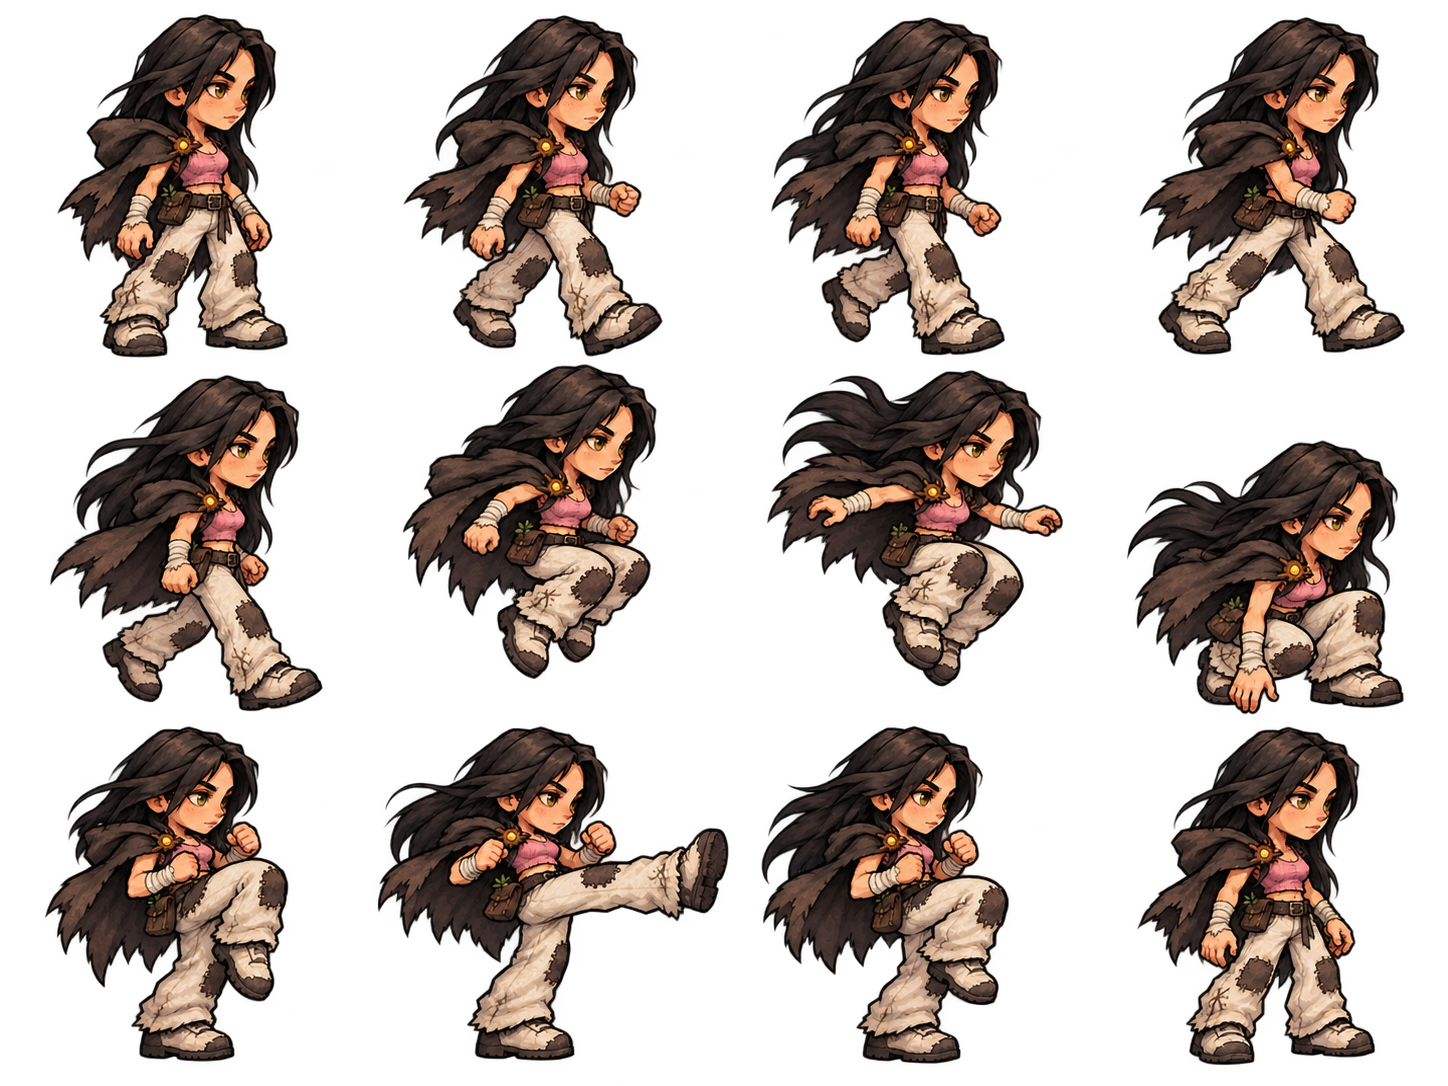
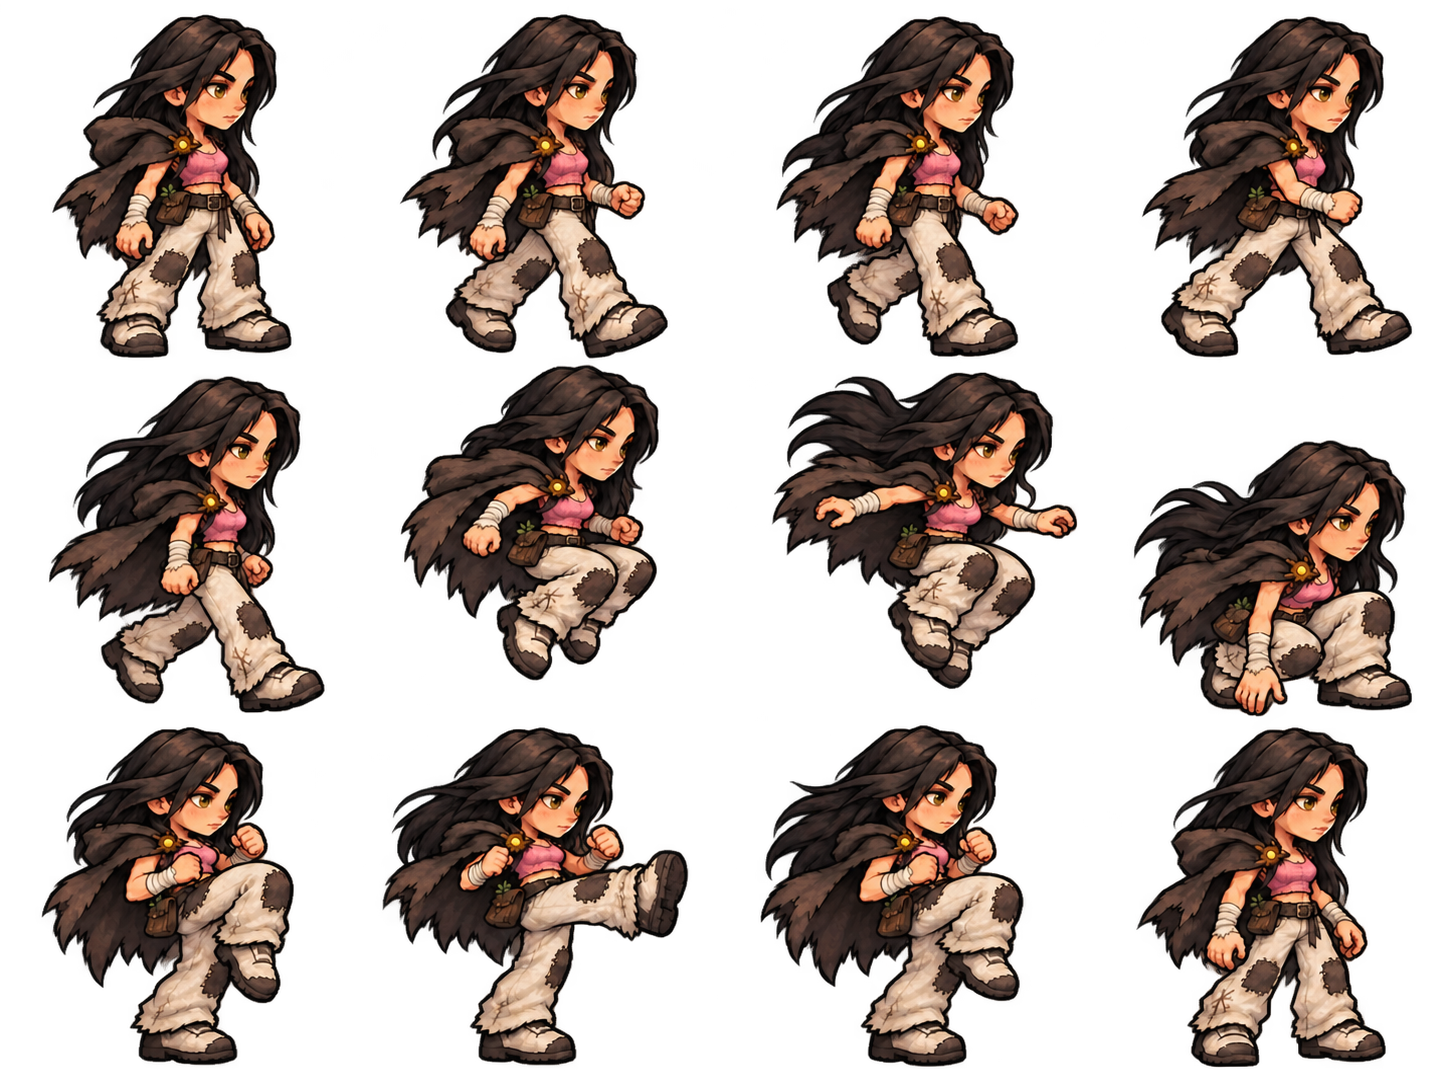
Keep Elara kick frames inside atlas cells and support headless PWA exports

diff --git a/Assets/WebTemplates/web-index.html b/Assets/WebTemplates/web-index.html
@@ -1,6 +1,6 @@
-<!doctype html><html lang="tr"><head><meta charset="utf-8"><meta name="viewport" content="width=device-width, initial-scale=1, viewport-fit=cover, user-scalable=no"><meta name="theme-color" content="#100e16"><meta name="mobile-web-app-capable" content="yes"><meta name="apple-mobile-web-app-capable" content="yes"><meta name="apple-mobile-web-app-status-bar-style" content="black-translucent"><meta name="apple-mobile-web-app-title" content="Kök Yankısı"><title>Kök Yankısı • Jump Higher</title><link rel="manifest" href="manifest.webmanifest"><link rel="icon" href="icon.png"><link rel="apple-touch-icon" href="icon-192.png"><style>*{box-sizing:border-box}html,body{margin:0;width:100%;height:100%;overflow:hidden;background:#100e16;color:#e6c5a0;font-family:system-ui,sans-serif;overscroll-behavior:none}body{height:100dvh;padding:env(safe-area-inset-top) env(safe-area-inset-right) env(safe-area-inset-bottom) env(safe-area-inset-left)}#game{width:100%;height:100%;display:block;touch-action:none;outline:none}#loading{position:fixed;inset:0;display:flex;flex-direction:column;align-items:center;justify-content:center;background:radial-gradient(ellipse at 50% 40%,#322231,#100e16 65%);gap:18px}img{width:min(28vw,180px);border-radius:30px;box-shadow:0 0 70px #a9482426}h1{font-size:clamp(24px,5vw,40px);letter-spacing:.12em;margin:6px}p{font-size:14px;color:#a28d87;margin:0}progress{width:min(65vw,300px);height:5px;accent-color:#d79060}#error{display:none;max-width:520px;padding:24px;text-align:center;color:#f1a59a}#install,#toast{position:fixed;left:50%;transform:translateX(-50%);bottom:max(16px,env(safe-area-inset-bottom));z-index:9;border-radius:999px;padding:10px 18px;font-size:14px;background:#322231;color:#e6c5a0;border:1px solid #d7906066;max-width:92vw;text-align:center}#install{display:none;font-family:inherit;cursor:pointer}#toast{display:none;pointer-events:none}</style></head><body><canvas id="game" tabindex="0"></canvas><div id="loading"><img src="icon.png" alt="Kök Gezgin"><h1>KÖK YANKISI</h1><p>Sonsuza doğru yüksel</p><progress id="progress" value="0" max="1"></progress><p id="state">Oyun yükleniyor…</p><div id="error" role="alert"></div></div><button id="install" type="button">📲 Cihaza yükle</button><div id="toast" role="status"></div><script src="__LOADER_JS__"></script><script>const canvas=document.getElementById('game');function failure(error){document.getElementById('state').textContent='Oyun başlatılamadı';let el=document.getElementById('error');el.style.display='block';el.textContent=String(error)+' • Sayfayı yenileyip tekrar deneyebilirsin.';}createUnityInstance(canvas,{dataUrl:'__DATA__',frameworkUrl:'__FRAMEWORK_JS__',codeUrl:'__WASM__',streamingAssetsUrl:'StreamingAssets',companyName:'Kerem Yürük',productName:'Kök Yankısı',productVersion:'0.6.0',devicePixelRatio:Math.min(window.devicePixelRatio||1,2),matchWebGLToCanvasSize:true},p=>document.getElementById('progress').value=p).then(instance=>{window.game=instance;document.getElementById('loading').style.display='none';canvas.focus();}).catch(failure);window.addEventListener('keydown',e=>{if(['Space','ArrowUp','ArrowDown','ArrowLeft','ArrowRight'].includes(e.code))e.preventDefault();});
+<!doctype html><html lang="tr"><head><meta charset="utf-8"><meta name="viewport" content="width=device-width, initial-scale=1, viewport-fit=cover, user-scalable=no"><meta name="theme-color" content="#100e16"><meta name="mobile-web-app-capable" content="yes"><meta name="apple-mobile-web-app-capable" content="yes"><meta name="apple-mobile-web-app-status-bar-style" content="black-translucent"><meta name="apple-mobile-web-app-title" content="Kök Yankısı"><title>Kök Yankısı • Jump Higher</title><link rel="manifest" href="manifest.webmanifest"><link rel="icon" href="icon.png"><link rel="apple-touch-icon" href="icon-192.png"><style>*{box-sizing:border-box}html,body{margin:0;width:100%;height:100%;overflow:hidden;background:#100e16;color:#e6c5a0;font-family:system-ui,sans-serif;overscroll-behavior:none}body{height:100dvh;padding:env(safe-area-inset-top) env(safe-area-inset-right) env(safe-area-inset-bottom) env(safe-area-inset-left)}#game{width:100%;height:100%;display:block;touch-action:none;outline:none}#loading{position:fixed;inset:0;display:flex;flex-direction:column;align-items:center;justify-content:center;background:radial-gradient(ellipse at 50% 40%,#322231,#100e16 65%);gap:18px}img{width:min(28vw,180px);border-radius:30px;box-shadow:0 0 70px #a9482426}h1{font-size:clamp(24px,5vw,40px);letter-spacing:.12em;margin:6px}p{font-size:14px;color:#a28d87;margin:0}progress{width:min(65vw,300px);height:5px;accent-color:#d79060}#error{display:none;max-width:520px;padding:24px;text-align:center;color:#f1a59a}#install,#toast{position:fixed;left:50%;transform:translateX(-50%);bottom:max(16px,env(safe-area-inset-bottom));z-index:9;border-radius:999px;padding:10px 18px;font-size:14px;background:#322231;color:#e6c5a0;border:1px solid #d7906066;max-width:92vw;text-align:center}#install{display:none;font-family:inherit;cursor:pointer}#toast{display:none;pointer-events:none}</style></head><body><canvas id="game" tabindex="0"></canvas><div id="loading"><img src="icon.png" alt="Kök Gezgin"><h1>KÖK YANKISI</h1><p>Sonsuza doğru yüksel</p><progress id="progress" value="0" max="1"></progress><p id="state">Oyun yükleniyor…</p><div id="error" role="alert"></div></div><button id="install" type="button">📲 Cihaza yükle</button><div id="toast" role="status"></div><script src="__LOADER_JS__"></script><script>const canvas=document.getElementById('game');function failure(error){document.getElementById('state').textContent='Oyun başlatılamadı';let el=document.getElementById('error');el.style.display='block';el.textContent=String(error)+' • Sayfayı yenileyip tekrar deneyebilirsin.';}createUnityInstance(canvas,{dataUrl:'__DATA__',frameworkUrl:'__FRAMEWORK_JS__',codeUrl:'__WASM__',streamingAssetsUrl:'StreamingAssets',companyName:'Kerem Yürük',productName:'Kök Yankısı',productVersion:'0.6.0',devicePixelRatio:Math.min(window.devicePixelRatio||1,2),matchWebGLToCanvasSize:true},p=>document.getElementById('progress').value=p).then(instance=>{window.game=instance;document.getElementById('install').style.display='none';document.getElementById('loading').style.display='none';canvas.focus();}).catch(failure);window.addEventListener('keydown',e=>{if(['Space','ArrowUp','ArrowDown','ArrowLeft','ArrowRight'].includes(e.code))e.preventDefault();});
 const toastEl=document.getElementById('toast'),installBtn=document.getElementById('install');let toastTimer;function toast(text,ms){toastEl.textContent=text;toastEl.style.display='block';clearTimeout(toastTimer);toastTimer=setTimeout(()=>toastEl.style.display='none',ms||4000);}
-const standalone=matchMedia('(display-mode: standalone)').matches||navigator.standalone===true;let installEvent;window.addEventListener('beforeinstallprompt',e=>{e.preventDefault();installEvent=e;if(!standalone)installBtn.style.display='block';});installBtn.addEventListener('click',async()=>{if(!installEvent)return;installEvent.prompt();await installEvent.userChoice;installEvent=null;installBtn.style.display='none';});window.addEventListener('appinstalled',()=>{installBtn.style.display='none';toast('Kök Yankısı cihaza yüklendi');});
+const standalone=matchMedia('(display-mode: standalone)').matches||navigator.standalone===true;let installEvent;window.addEventListener('beforeinstallprompt',e=>{if(window.game)return;e.preventDefault();installEvent=e;if(!standalone)installBtn.style.display='block';});installBtn.addEventListener('click',async()=>{if(!installEvent)return;installEvent.prompt();await installEvent.userChoice;installEvent=null;installBtn.style.display='none';});window.addEventListener('appinstalled',()=>{installBtn.style.display='none';toast('Kök Yankısı cihaza yüklendi');});
 if(!standalone&&/iphone|ipad|ipod/i.test(navigator.userAgent)&&!sessionStorage.getItem('iosHint')){sessionStorage.setItem('iosHint','1');setTimeout(()=>toast('Yüklemek için Paylaş ▸ Ana Ekrana Ekle',7000),2500);}
 if('serviceWorker'in navigator){const hadController=navigator.serviceWorker.controller;navigator.serviceWorker.addEventListener('controllerchange',()=>{if(hadController&&!window.__reloaded){window.__reloaded=1;location.reload();}});navigator.serviceWorker.addEventListener('message',e=>{if(e.data&&e.data.type==='offline-ready')toast('Oyun çevrimdışı oynanmaya hazır ✔');});window.addEventListener('load',()=>navigator.serviceWorker.register('sw.js').catch(e=>{console.warn('sw.js kaydı başarısız',e);toast('Çevrimdışı kurulum başarısız: '+(e&&e.message||e),7000);}));}
 </script></body></html>

diff --git a/Assets/Editor/ReleaseBuildQueue.cs b/Assets/Editor/ReleaseBuildQueue.cs
@@ -56,18 +56,24 @@ public static class ReleaseBuildQueue
     // Toplu mod: WEB_OUT ortam değişkenindeki klasöre WebGL derlemesi + PWA dosyaları yazar.
     public static void BuildWebBatch()
     {
+        ElaraCostumeVerification.Run();
         string folder=Environment.GetEnvironmentVariable("WEB_OUT");Directory.CreateDirectory(folder);
         PlayerSettings.productName="Kök Yankısı";PlayerSettings.bundleVersion="0.6.0";PlayerSettings.runInBackground=true;
         EditorUserBuildSettings.SwitchActiveBuildTarget(BuildTargetGroup.WebGL,BuildTarget.WebGL);
         PlayerSettings.WebGL.compressionFormat=WebGLCompressionFormat.Disabled;PlayerSettings.WebGL.initialMemorySize=256;
         Build(BuildTarget.WebGL,folder,"WebGL");
+        FinalizeWebBatch();
+    }
+    public static void FinalizeWebBatch()
+    {
+        string folder=Environment.GetEnvironmentVariable("WEB_OUT");
         File.Copy(Application.dataPath+"/WebTemplates/web-index.html",folder+"/index.html",true);
         string html=File.ReadAllText(folder+"/index.html");
         foreach(string suffix in new[]{"loader.js","framework.js","data","wasm"})
         {string path=Directory.GetFiles(folder+"/Build","*."+suffix).Single();html=html.Replace("__"+suffix.ToUpperInvariant().Replace('.','_')+"__","Build/"+Path.GetFileName(path));}
         File.WriteAllText(folder+"/index.html",html);
-        WebPwaExport.Apply(folder);
         File.WriteAllText(folder+"/build-info.json", JsonUtility.ToJson(new WebBuildInfo { version=Application.version, sourceRevision=Environment.GetEnvironmentVariable("BUILD_SOURCE_REVISION"), costumeIds=Costumes.All.Select(c=>c.Id).ToArray() },true));
+        WebPwaExport.Apply(folder);
         File.WriteAllText("Library/WebBatch.txt","done");
     }
     // Toplu mod: Builds/KokYankisi-Windows/KokYankisi.exe yazar (WIN_OUT ile klasör değiştirilebilir).

diff --git a/Assets/Editor/WebPwaExport.cs b/Assets/Editor/WebPwaExport.cs
@@ -106,14 +106,6 @@ self.addEventListener('fetch',event=>{
         var src=new Texture2D(2,2,TextureFormat.RGBA32,false);
         src.LoadImage(File.ReadAllBytes(sourcePath));
         int inner=Mathf.RoundToInt(size*scale);
-        var rt=RenderTexture.GetTemporary(inner,inner,0,RenderTextureFormat.ARGB32,RenderTextureReadWrite.sRGB);
-        var previous=RenderTexture.active;
-        Graphics.Blit(src,rt);
-        RenderTexture.active=rt;
-        var resized=new Texture2D(inner,inner,TextureFormat.RGBA32,false);
-        resized.ReadPixels(new Rect(0,0,inner,inner),0,0);resized.Apply();
-        RenderTexture.active=previous;RenderTexture.ReleaseTemporary(rt);
-
         var output=new Texture2D(size,size,TextureFormat.RGBA32,false);
         var background=new Color32(16,14,22,255);
         var pixels=Enumerable.Repeat(background,size*size).ToArray();
@@ -121,12 +113,13 @@ self.addEventListener('fetch',event=>{
         int offset=(size-inner)/2;
         for(int y=0;y<inner;y++)for(int x=0;x<inner;x++)
         {
-            Color c=resized.GetPixel(x,y);
+            // CPU sampling also works in -nographics batch exports.
+            Color c=src.GetPixelBilinear((x+.5f)/inner,(y+.5f)/inner);
             Color under=output.GetPixel(x+offset,y+offset);
             output.SetPixel(x+offset,y+offset,Color.Lerp(under,new Color(c.r,c.g,c.b,1f),c.a));
         }
         output.Apply();
         File.WriteAllBytes(targetPath,output.EncodeToPNG());
-        UnityEngine.Object.DestroyImmediate(src);UnityEngine.Object.DestroyImmediate(resized);UnityEngine.Object.DestroyImmediate(output);
+        UnityEngine.Object.DestroyImmediate(src);UnityEngine.Object.DestroyImmediate(output);
     }
 }

diff --git a/Assets/Editor/ElaraCostumeVerification.cs b/Assets/Editor/ElaraCostumeVerification.cs
@@ -21,6 +21,8 @@ public static class ElaraCostumeVerification
                 int solid=0,clear=0;
                 foreach(var p in pixels) { if(p.a>.5f) solid++; if(p.a<.01f) clear++; }
                 Assert.IsTrue(solid>500); Assert.IsTrue(clear>pixels.Length/4);
+                for(int x=0;x<(int)r.width;x++) { Assert.IsTrue(pixels[x].a<.5f); Assert.IsTrue(pixels[(int)(r.height-1)*(int)r.width+x].a<.5f); }
+                for(int y=0;y<(int)r.height;y++) { Assert.IsTrue(pixels[y*(int)r.width].a<.5f); Assert.IsTrue(pixels[y*(int)r.width+(int)r.width-1].a<.5f); }
                 Assert.IsTrue(frames[i].pivot.y>=0 && frames[i].pivot.y<r.height);
                 var foot=sheet.GetPixels((int)r.x,(int)(r.y+frames[i].pivot.y-.5f),(int)r.width,1);
                 int supported=0; foreach(var p in foot) if(p.a>.5f) supported++;
